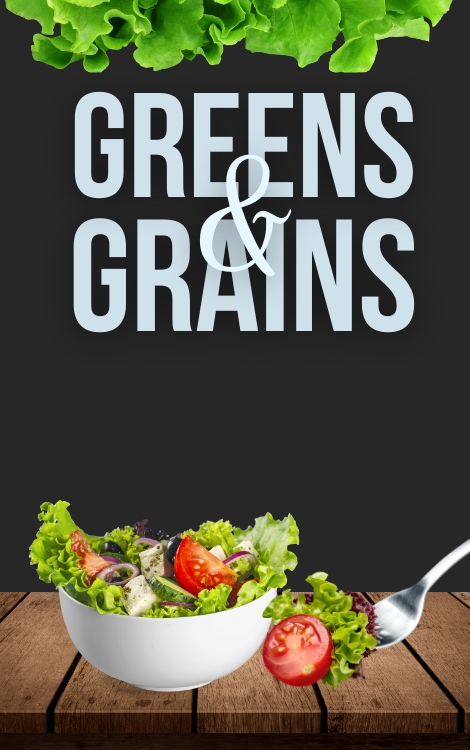
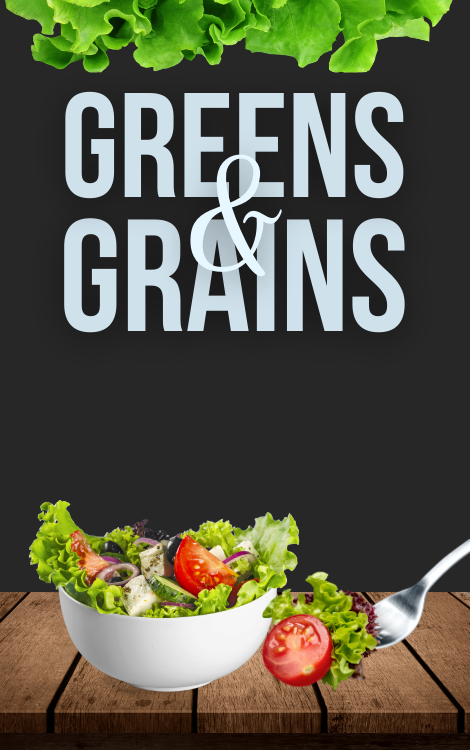
Change Frame Size

Changed region(s): [[0.1191, 0.1227, 0.8936, 0.46]]

diff --git a/SampleView.java b/SampleView.java
@@ -24,13 +24,13 @@ public class SampleView {
         };
 
         this.titleSpace = new JLabel();
-        this.titleSpace.setPreferredSize(new Dimension(0, 95));
+        this.titleSpace.setPreferredSize(new Dimension(0, 105));
 
         this.menuBtn1 = new JButton("Regular Vending Machine");
         this.menuBtn2 = new JButton("Special Vending Machine");
         this.menuBtn3 = new JButton("Exit");
 
-        frame.setSize(470, 750);
+        frame.setSize(480, 780);
 
         // Set the icon image
         frame.setIconImage(icon.getImage());
